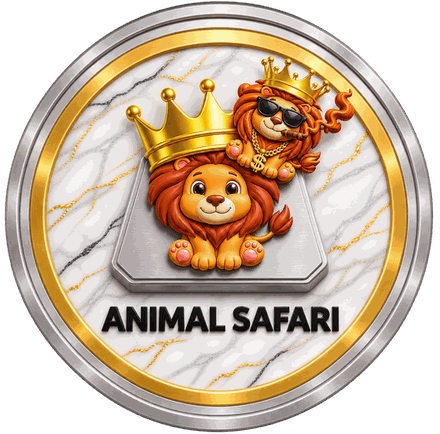
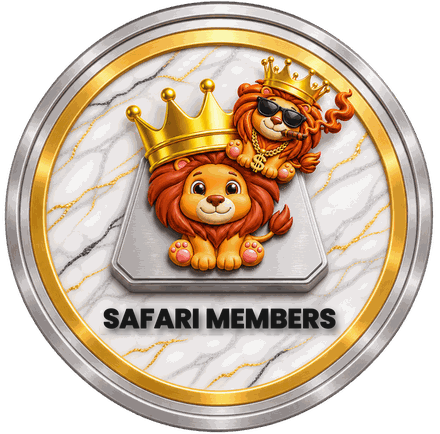
Safari Members: lencana 'SAFARI MEMBERS'; log masuk ahli dengan no. telefon + no. kenderaan (ahli_masuk + segerak harian kaunter); pautan ?c=&buka=bayar|daftar|masuk; QR umum & QR bayar setiap cawangan + poster A4 di Akaun → Tetapan Apps
Claude-Session: https://claude.ai/code/session_01LfLozUEuiZy5PFpUPcqDjt

Changed region(s): [[0.2068, 0.6889, 0.7682, 0.7788]]

diff --git a/akaun/index.html b/akaun/index.html
@@ -3,7 +3,7 @@
 <head>
 <meta charset="utf-8">
 <meta name="viewport" content="width=device-width,initial-scale=1,viewport-fit=cover">
-<meta name="app-versi" content="2026.11.16-16">
+<meta name="app-versi" content="2026.11.16-17">
 <meta name="theme-color" content="#14532d">
 <title>Akaun Mama Lion</title>
 <link rel="manifest" href="manifest.json">
@@ -108,11 +108,11 @@ setTimeout(function(){
 }, 9000);
 </script>
 <script type="module">
-import { firebaseConfig, BRANCH_ID } from '../firebase-config.js?v=2026.11.16-16';
-import { modulPengurusan, CSS_MODUL, fMinit, avatar, fotoProfil, CSS_AVATAR, JENIS_INFO, idBaca, teksKeHtml, CSS_DOK, KUASA, ikonKuasa, adaKuasa, PUSAT, CAW, JENIS_PEKERJA, kadarSejam, kodQRStesen } from '../pekerja-lib.js?v=2026.11.16-16';
-import { pasangSync } from '../sync-lib.js?v=2026.11.16-16';
-import { modulTutup, CSS_TUTUP, STATUS_TUTUP, senaraiTutup, dibayarAwal, KAEDAH_BAYAR_STAF, modulDuty, hariPT, htmlPT, teksPT, cetak, kongsiWhatsApp } from '../laporan-lib.js?v=2026.11.16-16';
-import { keadaanKad, normTelefon, telefonSah, paparTelefon, normPlat, KAD, HARGA_RASMI, hargaPakejK, BANK_MY, htmlTerimaBayar, adaTerimaBayar, pasangTerimaBayar, dataAwam, itemOrder } from '../safari-lib.js?v=2026.11.16-16';
+import { firebaseConfig, BRANCH_ID } from '../firebase-config.js?v=2026.11.16-17';
+import { modulPengurusan, CSS_MODUL, fMinit, avatar, fotoProfil, CSS_AVATAR, JENIS_INFO, idBaca, teksKeHtml, CSS_DOK, KUASA, ikonKuasa, adaKuasa, PUSAT, CAW, JENIS_PEKERJA, kadarSejam, kodQRStesen } from '../pekerja-lib.js?v=2026.11.16-17';
+import { pasangSync } from '../sync-lib.js?v=2026.11.16-17';
+import { modulTutup, CSS_TUTUP, STATUS_TUTUP, senaraiTutup, dibayarAwal, KAEDAH_BAYAR_STAF, modulDuty, hariPT, htmlPT, teksPT, cetak, kongsiWhatsApp } from '../laporan-lib.js?v=2026.11.16-17';
+import { keadaanKad, normTelefon, telefonSah, paparTelefon, normPlat, KAD, HARGA_RASMI, hargaPakejK, BANK_MY, htmlTerimaBayar, adaTerimaBayar, pasangTerimaBayar, dataAwam, itemOrder } from '../safari-lib.js?v=2026.11.16-17';
 import { initializeApp } from 'https://www.gstatic.com/firebasejs/10.13.0/firebase-app.js';
 import { getAuth, onAuthStateChanged, signInWithEmailAndPassword, signOut } from 'https://www.gstatic.com/firebasejs/10.13.0/firebase-auth.js';
 import { getFirestore, collection, query, where, getDocs, getDoc, getDocFromServer, addDoc, updateDoc, deleteDoc, doc, setDoc, onSnapshot, serverTimestamp, writeBatch } from 'https://www.gstatic.com/firebasejs/10.13.0/firebase-firestore.js';
@@ -1605,7 +1605,7 @@ function viewTetapanApps(){
   const fw = (T.pakej || []).find(p => p.id === T.pakejFreeWash);
   return head + `<div class="card" style="background:#fffbeb;box-shadow:none"><div class="section-title"><h3>📋 Senarai harga rasmi (Price List)</h3><button class="primary" id="tkRasmi">Muat ke ${esc(namaCawangan())}</button></div>
       <p class="muted" style="margin:0">${HARGA_RASMI.pakej.length} pakej & ${HARGA_RASMI.addon.length} add-on dengan harga ikut kenderaan (Sedan, SUV, MPV, 4x4, DXL) — Promo A/B, Premium Wash, Water Coating, Polish, Seat / Deep Cleaning, Enjin, Watermark Glass, Polish Lampu. Pakej & add-on sedia ada cawangan ini akan diganti. Kadar komisen perlu ditetapkan semula.</p></div>` + Object.entries(JENIS_TK).map(([j, J]) => `<div class="card"><div class="section-title"><h3>${J.ikon} ${J.label}</h3><button class="primary" data-tkubah="${j}">Ubah</button></div><div>${ringkas(j)}</div></div>`).join('')
-    + kadTerimaBayar(T)
+    + kadTerimaBayar(T) + kadQrMembers()
     + `<div class="card"><div class="section-title"><h3>🏪 Maklumat kedai & Safari Members</h3><button class="primary" id="tkKedai">Ubah</button></div>
       <div class="muted">${esc(T.namaKedai || '')}${T.alamat ? ' · ' + esc(T.alamat) : ''}<br>Free Wash: <b>${esc(fw?.nama || 'belum dipilih')}</b> · WhatsApp: ${esc(T.whatsapp || '—')} · Waktu: ${esc(T.waktuOperasi || '—')}<br>Bay: ${esc((T.bay || []).join(', ') || '—')}</div></div>
       <div class="card"><p class="muted" style="margin:0">Pekerja dengan kuasa 🏷 juga boleh ubah harga di kaunter (Lion Safari V2 → Tetapan). Petty cash, float tunai & had diskaun kekal di kaunter V2 (Admin).</p></div>`;
@@ -1617,6 +1617,8 @@ function pasangTetapanApps(){
   if($('#tkKedai')) $('#tkKedai').onclick = borangKedai;
   if($('#tbUbah')) $('#tbUbah').onclick = borangTerimaBayar;
   if($('#tbCetak')) $('#tbCetak').onclick = cetakPosterBayar;
+  if($('#qrPoster')) $('#qrPoster').onclick = cetakPosterMembers;
+  if($('#qrSalin')) $('#qrSalin').onclick = async () => { try{ await navigator.clipboard.writeText(urlMembers()); toast('Pautan disalin'); }catch(_){ prompt('Salin pautan:', urlMembers()); } };
   if($('#tbSalinCaw')) $('#tbSalinCaw').onclick = async () => {
     const lain = CAW.find(x => x.id !== cawangan); if(!lain) return;
     if(!confirm(`Guna akaun penerima & QR yang sama untuk ${lain.nama}? (Tetapan ${lain.nama} sedia ada akan diganti)`)) return;
@@ -1672,6 +1674,35 @@ function borangTerimaBayar(){
     try{ await setDoc(doc(store, 'lionsafari', cawangan, 'tetapan', 'umum'), {terimaBayaran: d, dikemaskiniOleh: nama}, {merge: true}); tutupModal(); toast(`✅ Akaun penerima ${namaCawangan()} disimpan — terus dipapar di kaunter & Apps Pelanggan`); }
     catch(e){ $('#tbSimpan').disabled = false; toast('⚠ ' + (e.code || e.message)); }
   };
+}
+
+// ---------- 📱 QR Safari Members (umum): bayar tanpa tempahan, daftar ahli, log masuk, pasang apps ----------
+const urlMembers = (bayar = false) => `https://alamhayyat20-collab.github.io/Mama-lion-hub/pelanggan/?c=${cawangan}${bayar ? '&buka=bayar' : ''}`;
+const qrMembers = (bayar = false) => new URL(`../pelanggan/qr/qr-${cawangan}${bayar ? '-bayar' : ''}.png`, location.href).href;
+function kadQrMembers(){
+  return `<div class="card"><div class="section-title"><h3>📱 QR Safari Members — ${esc(namaCawangan())}</h3><div class="row"><button class="primary" id="qrPoster">🖨 Cetak poster QR</button><button class="small" id="qrSalin">📋 Salin pautan</button></div></div>
+    <p class="muted" style="margin-top:0">Untuk orang ramai: imbas untuk <b>bayar cucian tanpa tempahan</b>, <b>daftar ahli percuma</b>, <b>log masuk ahli</b> (no. telefon + no. kenderaan) & <b>pasang apps</b>.</p>
+    <div class="row" style="gap:16px;align-items:flex-start">
+      <div style="text-align:center"><img src="${qrMembers()}" style="width:170px;border:1px solid #e2e8f0;border-radius:12px"><br><b>Safari Members</b><br><a href="${qrMembers()}" download="QR-SafariMembers-${cawangan}.png">⬇ Muat turun</a></div>
+      <div style="text-align:center"><img src="${qrMembers(true)}" style="width:170px;border:1px solid #e2e8f0;border-radius:12px"><br><b>Bayar terus</b><br><a href="${qrMembers(true)}" download="QR-Bayar-${cawangan}.png">⬇ Muat turun</a></div></div></div>`;
+}
+function cetakPosterMembers(){
+  const T = tetapanKaunter, logo = new URL(cawangan === 'lion-king' ? 'logo-lionking.jpg' : 'logo-mamalion.jpg', location.href).href, syiling = new URL('../pelanggan/syiling.png', location.href).href;
+  const w = window.open('', '_blank'); if(!w) return toast('Benarkan pop-up untuk cetak');
+  w.document.write(`<!DOCTYPE html><html><head><meta charset="utf-8"><title>Poster Safari Members ${esc(namaCawangan())}</title><style>@page{size:A4;margin:12mm}*{box-sizing:border-box}body{font-family:system-ui,sans-serif;color:#0f2d1e;margin:0;text-align:center}
+    .atas{display:flex;align-items:center;justify-content:center;gap:14px}.atas img{height:80px}h1{font-size:42px;margin:6px 0 0;letter-spacing:3px}.sub{color:#475569;font-size:17px;margin-bottom:8px}
+    .qr{width:330px;border:5px solid #14532d;border-radius:22px;padding:8px}.senarai{display:grid;grid-template-columns:1fr 1fr;gap:10px;text-align:left;max-width:600px;margin:14px auto}
+    .senarai div{border:2px solid #e2e8f0;border-radius:14px;padding:10px 12px;font-size:15px}.senarai b{display:block;font-size:17px;color:#14532d}
+    .bawah{display:flex;align-items:center;justify-content:center;gap:16px;margin-top:10px;border-top:2px dashed #94a3b8;padding-top:12px}.bawah img{width:150px}</style></head><body>
+    <div class="atas"><img src="${logo}"><img src="${syiling}"></div><h1>SAFARI MEMBERS</h1><div class="sub">${esc(T.namaKedai || namaCawangan())} — imbas dengan kamera telefon</div>
+    <img class="qr" src="${qrMembers()}">
+    <div class="senarai"><div><b>💳 Bayar cucian</b>Tanpa tempahan — masukkan no. kenderaan, imbas QR bank & muat naik resit.</div>
+      <div><b>⭐ Daftar ahli percuma</b>Kumpul cop setiap cucian. Cop ke-4 & ke-8 = Free Wash!</div>
+      <div><b>🔑 Log masuk ahli</b>Guna no. telefon & no. kenderaan yang didaftarkan.</div>
+      <div><b>📲 Pasang apps</b>Tekan butang Pasang — apps terus ada di skrin telefon.</div></div>
+    <div class="bawah"><img src="${qrMembers(true)}"><div style="text-align:left"><b style="font-size:20px">Nak bayar terus?</b><br>Imbas QR ini untuk terus ke<br>halaman bayaran cucian.</div></div>
+    <script>window.onload=()=>setTimeout(()=>print(),500)<\/script></body></html>`);
+  w.document.close();
 }
 function cetakPosterBayar(){
   const T = tetapanKaunter, B = T.terimaBayaran || {}, logo = new URL(cawangan === 'lion-king' ? 'logo-lionking.jpg' : 'logo-mamalion.jpg', location.href).href;

diff --git a/pelanggan/index.html b/pelanggan/index.html
@@ -3,7 +3,7 @@
 <head>
 <meta charset="utf-8">
 <meta name="viewport" content="width=device-width,initial-scale=1,viewport-fit=cover">
-<meta name="app-versi" content="2026.11.16-16">
+<meta name="app-versi" content="2026.11.16-17">
 <meta name="theme-color" content="#0d2a20">
 <meta name="apple-mobile-web-app-capable" content="yes">
 <meta name="mobile-web-app-capable" content="yes">
@@ -231,11 +231,11 @@ setTimeout(function(){
 }, 9000);
 </script>
 <script type="module">
-import { firebaseConfig } from '../firebase-config.js?v=2026.11.16-16';
+import { firebaseConfig } from '../firebase-config.js?v=2026.11.16-17';
 import { initializeApp } from 'https://www.gstatic.com/firebasejs/10.13.0/firebase-app.js';
 import { getFirestore, collection, doc, getDoc, getDocs, onSnapshot, updateDoc, setDoc, addDoc, writeBatch, query, orderBy, limit, arrayUnion, serverTimestamp } from 'https://www.gstatic.com/firebasejs/10.13.0/firebase-firestore.js';
-import { pasangSync } from '../sync-lib.js?v=2026.11.16-16';
-import { KAD, keadaanKad, normPlat, paparPlat, normTelefon, telefonSah, paparTelefon, buatToken, ahliBaru, hargaPakejK, hargaAddonK, HARGA_RASMI, STATUS_ORDER, gambarAsal, htmlTerimaBayar, adaTerimaBayar, pasangTerimaBayar } from '../safari-lib.js?v=2026.11.16-16';
+import { pasangSync } from '../sync-lib.js?v=2026.11.16-17';
+import { KAD, keadaanKad, normPlat, paparPlat, normTelefon, telefonSah, paparTelefon, buatToken, ahliBaru, hargaPakejK, hargaAddonK, HARGA_RASMI, STATUS_ORDER, gambarAsal, htmlTerimaBayar, adaTerimaBayar, pasangTerimaBayar, kunciMasuk, dokMasukAhli } from '../safari-lib.js?v=2026.11.16-17';
 
 const CAWANGAN = [
   {id:'mama-lion', nama:'Mama Lion', logo:'logo-mamalion.jpg'},
@@ -263,6 +263,9 @@ const tetapan = {}, gambarPakej = {};
 const m = location.hash.match(/k=([A-Za-z0-9]{20,40})/);
 if(m){ LS.set('sm_token', m[1]); history.replaceState(null, '', location.pathname); }
 token = LS.get('sm_token');
+// Pautan / QR umum: ?c=mama-lion|lion-king  &buka=bayar|daftar|masuk
+const QS = new URLSearchParams(location.search), bukaQS = QS.get('buka');
+if(['mama-lion', 'lion-king'].includes(QS.get('c'))){ cawPakej = QS.get('c'); }
 
 // ---------- Ikon navigasi ----------
 const IKON = {
@@ -433,8 +436,23 @@ function promoHtml(p){
 }
 
 // ---------- Alu-aluan (belum ahli) ----------
+// ---------- Log masuk ahli: no. telefon + no. kenderaan ----------
+function simpanMasuk(a){ dokMasukAhli(a).forEach(([k, v]) => setDoc(doc(db, 'ahli_masuk', k), v).catch(e => console.warn('ahli_masuk', e))); }
+async function logMasuk(){
+  const tel = normTelefon(val('#mTel')), plat = normPlat(val('#mPlat')), ralat = t => { $('#mRalat').textContent = t; };
+  if(!telefonSah(tel)) return ralat('No. telefon tidak sah. Contoh: 012-345 6789.');
+  if(plat.length < 2) return ralat('Sila isi no. kenderaan yang didaftarkan.');
+  $('#mMasuk').disabled = true; $('#mMasuk').textContent = 'Menyemak…'; ralat('');
+  try{
+    const s = await getDoc(doc(db, 'ahli_masuk', kunciMasuk(tel, plat)));
+    if(!s.exists()){ $('#mMasuk').disabled = false; $('#mMasuk').textContent = 'Log masuk';
+      return ralat('Tiada kad ahli untuk no. telefon & kenderaan ini. Semak semula, atau minta kaunter kemas kini maklumat anda. Belum ahli? Tekan "Daftar ahli percuma".'); }
+    token = s.data().token; LS.set('sm_token', token); tab = 'Kad';
+    toast('✅ Log masuk berjaya. Selamat kembali!'); mulaAhli(); window.scrollTo({top:0});
+  }catch(e){ console.error(e); $('#mMasuk').disabled = false; $('#mMasuk').textContent = 'Log masuk'; ralat('Tidak dapat menyemak sekarang. Semak sambungan internet dan cuba lagi.'); }
+}
 function viewAluan(){
-  $('#app').innerHTML = `<div class="pentas"><div class="syiling"><img src="syiling.png" alt="Lencana Animal Safari"></div></div>
+  $('#app').innerHTML = `<div class="pentas"><div class="syiling"><img src="syiling.png" alt="Lencana Safari Members"></div></div>
     <button class="btn" id="keBayar" style="margin:6px 0 4px;background:#14532d;color:#fff">💳 Bayar cucian kenderaan saya</button>
     <h1>Safari Members</h1>
     <p class="lead">Kad ahli digital Mama Lion & Lion King. Kumpul cop setiap kali mencuci, dapat Free Wash.</p>
@@ -445,10 +463,17 @@ function viewAluan(){
     </ul></div>
     <div style="margin-top:20px"><button class="btn btn-emas" id="keDaftar">Daftar ahli percuma</button>
       <button class="btn btn-garis" id="kePromo">Lihat promosi & pakej</button></div>
-    <p class="muted" style="text-align:center;margin-top:16px">Sudah didaftarkan di kaunter? Minta kaunter hantar pautan kad anda melalui WhatsApp.</p>
+    <h2 id="masukAhli">Sudah ahli? Log masuk</h2>
+    <div class="panel"><p class="muted" style="margin-top:0">Untuk ahli yang telah mendaftar di kaunter atau dalam apps.</p>
+      <label style="display:block;font-weight:700">No. telefon</label><input id="mTel" inputmode="tel" autocomplete="tel" placeholder="cth: 012-345 6789" style="width:100%">
+      <label style="display:block;font-weight:700;margin-top:8px">No. kenderaan berdaftar</label><input id="mPlat" placeholder="cth: VAB 1234" style="width:100%;text-transform:uppercase" autocomplete="off">
+      <div id="mRalat" class="muted" style="color:#b91c1c;margin-top:6px"></div>
+      <button class="btn btn-emas" id="mMasuk" style="margin-top:10px">Log masuk</button></div>
     ${pasangHtml()}`;
   $('#keDaftar').onclick = () => { tab = 'Daftar'; render(); window.scrollTo({top:0}); };
   $('#keBayar').onclick = () => { tab = 'Bayar'; render(); window.scrollTo({top:0}); };
+  $('#mMasuk').onclick = logMasuk; $('#mPlat').onkeydown = e => { if(e.key === 'Enter') logMasuk(); };
+  if(bukaQS === 'masuk') setTimeout(() => { $('#masukAhli')?.scrollIntoView({behavior:'smooth'}); $('#mTel')?.focus(); }, 300);
   $('#kePromo').onclick = () => { tab = 'Promosi'; render(); };
   pasangPasang();
 }
@@ -489,13 +514,14 @@ function viewDaftar(){
       b.set(doc(db, 'ahli', t), data);
       b.set(doc(db, 'ahli_telefon', tel), {token: t});
       await b.commit();
+      simpanMasuk({id: t, ...data});
       token = t; LS.set('sm_token', t); tab = 'Kad';
       toast(`Selamat datang ke Safari Members, ${nama.split(' ')[0]}!`);
       mulaAhli();
     }catch(e){
       console.error(e);
       $('#dHantar').disabled = false; $('#dHantar').textContent = 'Daftar ahli';
-      ralat(e.code === 'permission-denied' ? 'Nombor telefon ini sudah berdaftar. Minta kaunter hantar pautan kad anda melalui WhatsApp.' : 'Pendaftaran gagal. Semak sambungan internet dan cuba lagi.');
+      ralat(e.code === 'permission-denied' ? 'Nombor telefon ini sudah berdaftar. Sila guna "Log masuk ahli" di skrin utama dengan no. telefon & no. kenderaan anda.' : 'Pendaftaran gagal. Semak sambungan internet dan cuba lagi.');
     }
   };
 }
@@ -746,10 +772,11 @@ function viewProfil(){
       await updateDoc(doc(db, 'ahli', token), {nama: val('#pNama'), emel: val('#pEmel'), tarikhLahir: val('#pLahir'), kenderaan, plat: [...new Set(kenderaan.map(k => normPlat(k.plat)))],
         cawanganUtama: val('#pCaw'), setujuPromosi: $('#pPromo').checked, dikemaskini: Date.now()});
       toast('Profil disimpan.');
+      simpanMasuk({...ahli, kenderaan, plat: [...new Set(kenderaan.map(k => normPlat(k.plat)))]});
     }catch(err){ console.error(err); toast('Profil tidak dapat disimpan. Semak sambungan internet.'); }
   };
   $('#pSalin').onclick = async () => { const u = new URL('#k=' + token, location.href.split('#')[0]).href; try{ await navigator.clipboard.writeText(u); toast('Pautan kad disalin.'); }catch(_){ prompt('Salin pautan kad anda:', u); } };
-  $('#pKeluar').onclick = () => { if(!confirm('Keluar dari kad di telefon ini? Anda perlukan pautan kad untuk masuk semula.')) return; LS.set('sm_token', null); token = null; ahli = null; if(unsubAhli) unsubAhli(); tab = 'Utama'; render(); };
+  $('#pKeluar').onclick = () => { if(!confirm('Keluar dari kad di telefon ini? Anda boleh log masuk semula dengan no. telefon & no. kenderaan.')) return; LS.set('sm_token', null); token = null; ahli = null; if(unsubAhli) unsubAhli(); tab = 'Utama'; render(); };
 }
 async function gambarProfil(fail){
   const img = await new Promise((ok, gagal) => { const i = new Image(); i.onload = () => ok(i); i.onerror = gagal; i.src = URL.createObjectURL(fail); });
@@ -778,7 +805,9 @@ function pasangPasang(){
 }
 
 // ---------- Mula ----------
-tab = 'Utama';
+tab = bukaQS === 'bayar' ? 'Bayar' : (bukaQS === 'daftar' && !token) ? 'Daftar' : 'Utama';
+if(bukaQS === 'bayar' && ['mama-lion', 'lion-king'].includes(QS.get('c'))) byC = QS.get('c');
+if(bukaQS) history.replaceState(null, '', location.pathname + location.hash);
 mulaAhli();
 muatPromosi();
 render();

diff --git a/lionsafari/index.html b/lionsafari/index.html
@@ -3,7 +3,7 @@
 <head>
 <meta charset="utf-8">
 <meta name="viewport" content="width=device-width,initial-scale=1,viewport-fit=cover">
-<meta name="app-versi" content="2026.11.16-16">
+<meta name="app-versi" content="2026.11.16-17">
 <meta name="theme-color" content="#0f172a">
 <meta name="apple-mobile-web-app-capable" content="yes">
 <meta name="apple-mobile-web-app-status-bar-style" content="black-translucent">
@@ -164,16 +164,16 @@ setTimeout(function(){
 }, 9000);
 </script>
 <script type="module">
-import { firebaseConfig, BRANCH_ID } from '../firebase-config.js?v=2026.11.16-16';
+import { firebaseConfig, BRANCH_ID } from '../firebase-config.js?v=2026.11.16-17';
 import { initializeApp } from 'https://www.gstatic.com/firebasejs/10.13.0/firebase-app.js';
 import { getAuth, onAuthStateChanged, signInWithEmailAndPassword, signOut } from 'https://www.gstatic.com/firebasejs/10.13.0/firebase-auth.js';
 import { initializeFirestore, persistentLocalCache, persistentMultipleTabManager, collection, doc, query, where, orderBy, limit,
   getDocs, getDoc, setDoc, addDoc, updateDoc, deleteDoc, onSnapshot, serverTimestamp, increment, runTransaction, arrayUnion } from 'https://www.gstatic.com/firebasejs/10.13.0/firebase-firestore.js';
-import { normPlat, paparPlat, normTelefon, telefonSah, paparTelefon, buatToken, ahliBaru, keadaanKad, tambahCop, batalCop, gunaFreeWash, pulangFreeWash, KAD, hargaPakejK, hargaAddonK, gambarAsal, htmlTerimaBayar, pasangTerimaBayar } from '../safari-lib.js?v=2026.11.16-16';
-import { modulPengurusan, CSS_MODUL, avatar, fotoProfil, kadID, CSS_AVATAR, KUASA, MOHON_BUKAN_WANG, adaKuasa, ikonKuasa, PUSAT, capGambar } from '../pekerja-lib.js?v=2026.11.16-16';
-import { modulTutup, CSS_TUTUP } from '../laporan-lib.js?v=2026.11.16-16';
-import { kaunter, STATUS_TEMPAHAN } from '../kaunter-lib.js?v=2026.11.16-16';
-import { pasangSync } from '../sync-lib.js?v=2026.11.16-16';
+import { normPlat, paparPlat, normTelefon, telefonSah, paparTelefon, buatToken, ahliBaru, keadaanKad, tambahCop, batalCop, gunaFreeWash, pulangFreeWash, KAD, hargaPakejK, hargaAddonK, gambarAsal, htmlTerimaBayar, pasangTerimaBayar, kunciMasuk, dokMasukAhli } from '../safari-lib.js?v=2026.11.16-17';
+import { modulPengurusan, CSS_MODUL, avatar, fotoProfil, kadID, CSS_AVATAR, KUASA, MOHON_BUKAN_WANG, adaKuasa, ikonKuasa, PUSAT, capGambar } from '../pekerja-lib.js?v=2026.11.16-17';
+import { modulTutup, CSS_TUTUP } from '../laporan-lib.js?v=2026.11.16-17';
+import { kaunter, STATUS_TEMPAHAN } from '../kaunter-lib.js?v=2026.11.16-17';
+import { pasangSync } from '../sync-lib.js?v=2026.11.16-17';
 
 // =====================================================================
 // TETAPAN ASAS (Admin sahaja boleh ubah dalam tab Tetapan)
@@ -285,6 +285,15 @@ let aktif = [], dibuatHari = [], bayarHari = [], stok = [], petty = [];
 let unsubAsas = [], unsubHari = [], dataError = '';
 let pasangPrompt = null;
 let GAMBAR = {}, KOMISEN = {}, FOTO = {}, tempahan = [], bayarPel = [], bayarPelMula = false;
+// Segerak indeks log masuk Apps Pelanggan (ahli_masuk/{telefon}_{plat}) — sekali setiap 12 jam
+async function segerakMasukAhli(){
+  try{ if(Date.now() - (+localStorage.getItem('ls_masukSync') || 0) < 12 * 3600e3) return; }catch(_){}
+  try{
+    const s = await getDocs(ahliCol()); const senarai = s.docs.flatMap(d => dokMasukAhli({id: d.id, ...d.data()}));
+    for(let i = 0; i < senarai.length; i += 400) await Promise.all(senarai.slice(i, i + 400).map(([k, v]) => setDoc(doc(store, 'ahli_masuk', k), v)));
+    localStorage.setItem('ls_masukSync', String(Date.now())); console.log('ahli_masuk segerak', senarai.length);
+  }catch(e){ console.warn('segerak ahli_masuk', e); }
+}
 // Notifikasi kaunter: bunyi + getar + notifikasi sistem (jika dibenarkan) + toast
 function bunyiMaklum(tajuk, isi){
   toast(`${tajuk}: ${isi}`);
@@ -513,6 +522,7 @@ function kunci(){ modulPK.henti(); staf = null; try{ localStorage.removeItem('ls
 function langganHari(){
   stopAll(unsubHari);
   hari = today();
+  segerakMasukAhli();
   unsubHari.push(onSnapshot(query(col('order'), where('aktif','==',true)), s => {
     const lama = Object.fromEntries(aktif.map(o => [o.id, o.diskaunBeri?.masa || 0]));
     aktif = s.docs.map(d => ({id:d.id, ...d.data()})).sort((a,b) => (a.masaDibuat||0)-(b.masaDibuat||0));
@@ -920,6 +930,7 @@ VIEWS['Order Baru'] = {
           }
         }
         if(ahli && !(ahli.plat || []).includes(normPlat(plat))) updateDoc(doc(ahliCol(), ahli.id), {plat: arrayUnion(normPlat(plat)), kenderaan: arrayUnion({plat, jenis:k.nama})}).catch(console.error);
+        if(ahli) setDoc(doc(store, 'ahli_masuk', kunciMasuk(ahli.telefon || tel, plat)), {token: ahli.id}).catch(console.error);;
         const ref = doc(col('order'));
         const data = {no, plat, nama, telefon: tel, kenderaan:k.nama, tambahanKenderaan: fw ? 0 : tambah, pakejId: p.id, pakej:p.nama, hargaPakej: fw ? 0 : p.harga, addon,
           jumlahKasar:kasar, diskaun:0, jumlah:kasar, bay: val('#oBay'), catatan: val('#oCat'), status:'Menunggu', aktif:true,

diff --git a/pekerja/index.html b/pekerja/index.html
@@ -3,7 +3,7 @@
 <head>
 <meta charset="utf-8">
 <meta name="viewport" content="width=device-width,initial-scale=1,viewport-fit=cover">
-<meta name="app-versi" content="2026.11.16-16">
+<meta name="app-versi" content="2026.11.16-17">
 <meta name="theme-color" content="#14532d">
 <meta name="apple-mobile-web-app-capable" content="yes">
 <meta name="mobile-web-app-capable" content="yes">
@@ -115,15 +115,15 @@ setTimeout(function(){
 }, 9000);
 </script>
 <script type="module">
-import { firebaseConfig } from '../firebase-config.js?v=2026.11.16-16';
+import { firebaseConfig } from '../firebase-config.js?v=2026.11.16-17';
 import { initializeApp } from 'https://www.gstatic.com/firebasejs/10.13.0/firebase-app.js';
 import { getAuth, onAuthStateChanged, signInWithEmailAndPassword, signOut } from 'https://www.gstatic.com/firebasejs/10.13.0/firebase-auth.js';
 import { getFirestore, collection, doc, query, where, onSnapshot, setDoc, getDoc, getDocs, updateDoc, deleteDoc, runTransaction, arrayUnion, writeBatch, serverTimestamp } from 'https://www.gstatic.com/firebasejs/10.13.0/firebase-firestore.js';
-import { JENIS_PEKERJA, JENIS_MOHON, STATUS_MOHON, hariIni, tambahHari, fTarikhPendek, fJam, fMinit, masaMs, syifDari, jarakMeter, jamKerja, minitLewat, capGambar, avatar, kadID, CSS_AVATAR, JENIS_INFO, idBaca, teksKeHtml, CSS_DOK, KUASA, MOHON_BUKAN_WANG, adaKuasa, ikonKuasa, pengelola, modulPengurusan, CSS_MODUL, PUSAT, CAW, namaCaw, tempatStaf, labelTempat, bacaQRStesen } from '../pekerja-lib.js?v=2026.11.16-16';
-import { normPlat, paparPlat, normTelefon, telefonSah, paparTelefon, buatToken, ahliBaru, keadaanKad, KAD, hargaPakejK, hargaAddonK, gambarAsal, htmlTerimaBayar, pasangTerimaBayar, DISKAUN_KUASA } from '../safari-lib.js?v=2026.11.16-16';
-import { kaunter, KAEDAH_BAYAR } from '../kaunter-lib.js?v=2026.11.16-16';
-import { modulTutup, CSS_TUTUP, STATUS_TUTUP, modulDuty } from '../laporan-lib.js?v=2026.11.16-16';
-import { pasangSync } from '../sync-lib.js?v=2026.11.16-16';
+import { JENIS_PEKERJA, JENIS_MOHON, STATUS_MOHON, hariIni, tambahHari, fTarikhPendek, fJam, fMinit, masaMs, syifDari, jarakMeter, jamKerja, minitLewat, capGambar, avatar, kadID, CSS_AVATAR, JENIS_INFO, idBaca, teksKeHtml, CSS_DOK, KUASA, MOHON_BUKAN_WANG, adaKuasa, ikonKuasa, pengelola, modulPengurusan, CSS_MODUL, PUSAT, CAW, namaCaw, tempatStaf, labelTempat, bacaQRStesen } from '../pekerja-lib.js?v=2026.11.16-17';
+import { normPlat, paparPlat, normTelefon, telefonSah, paparTelefon, buatToken, ahliBaru, keadaanKad, KAD, hargaPakejK, hargaAddonK, gambarAsal, htmlTerimaBayar, pasangTerimaBayar, DISKAUN_KUASA, kunciMasuk } from '../safari-lib.js?v=2026.11.16-17';
+import { kaunter, KAEDAH_BAYAR } from '../kaunter-lib.js?v=2026.11.16-17';
+import { modulTutup, CSS_TUTUP, STATUS_TUTUP, modulDuty } from '../laporan-lib.js?v=2026.11.16-17';
+import { pasangSync } from '../sync-lib.js?v=2026.11.16-17';
 
 // Akaun Firebase khas untuk telefon pekerja (dicipta oleh pemilik di Firebase Console)
 const EMAIL_PEKERJA = 'alamhayyat20+pekerja@gmail.com';
@@ -931,6 +931,7 @@ function borangOrder(){
         }
       }
       if(ahli && !(ahli.plat || []).includes(normPlat(plat))) updateDoc(doc(ahliCol(), ahli.id), {plat: arrayUnion(normPlat(plat)), kenderaan: arrayUnion({plat, jenis:k.nama})}).catch(console.error);
+      if(ahli) setDoc(doc(store, 'ahli_masuk', kunciMasuk(ahli.telefon || tel, plat)), {token: ahli.id}).catch(console.error);
       const ref = doc(LS(cawO,'order'));
       const data = {no, plat, nama, telefon: tel, kenderaan: k.nama, tambahanKenderaan: fw ? 0 : tambah, pakejId: p.id, pakej: p.nama, hargaPakej: fw ? 0 : p.harga, addon,
         jumlahKasar: kasar, diskaun: 0, jumlah: kasar, bay: val('#oBay') || '', catatan: val('#oCat'), status: 'Menunggu', aktif: true,

diff --git a/safari-lib.js b/safari-lib.js
@@ -231,3 +231,12 @@ export function dataAwam(o, c){
     jumlahKasar: Number(o.jumlahKasar) || 0, diskaun, jumlah: aktif ? Math.max(0, r2_((Number(o.jumlahKasar) || 0) - diskaun)) : (Number(o.jumlah) || 0),
     status: o.status || '', aktif, masa: Date.now()};
 }
+
+// ---------- Log masuk ahli: no. telefon + no. kenderaan → token kad ----------
+// ahli_masuk/{tel_plat} = {token}. Ditulis semasa daftar / order kaunter / kemas kini profil / segerak harian kaunter.
+export const kunciMasuk = (tel, plat) => `${normTelefon(tel)}_${normPlat(plat)}`;
+export function dokMasukAhli(a){   // senarai [kunci, {token}] bagi semua kenderaan ahli
+  if(!a?.telefon) return [];
+  const plat = [...new Set([...(a.plat || []), ...(a.kenderaan || []).map(k => k.plat)].map(normPlat).filter(Boolean))];
+  return plat.map(p => [kunciMasuk(a.telefon, p), {token: a.id}]);
+}

diff --git a/akaun/sw.js b/akaun/sw.js
@@ -1,5 +1,5 @@
 // Akaun Mama Lion — simpan fail apps supaya boleh dibuka seperti apps biasa (data Firebase diurus berasingan)
-const V = 'akaun-ml-v25';
+const V = 'akaun-ml-v26';
 const SHELL = ['./', 'index.html', 'manifest.json', 'icon-192.png', 'icon-512.png', 'logo-mamalion.jpg', 'logo-lionking.jpg', '../firebase-config.js', '../pekerja-lib.js', '../safari-lib.js', '../sync-lib.js'];
 self.addEventListener('install', e => e.waitUntil(caches.open(V).then(c => Promise.allSettled(SHELL.map(u => c.add(u)))).then(() => self.skipWaiting())));
 self.addEventListener('activate', e => e.waitUntil(caches.keys().then(ks => Promise.all(ks.filter(k => k.startsWith('akaun-ml-') && k !== V).map(k => caches.delete(k)))).then(() => self.clients.claim())));

diff --git a/lionsafari/sw.js b/lionsafari/sw.js
@@ -1,5 +1,5 @@
 // Lion Safari V2 — simpan fail apps untuk guna tanpa internet (data Firebase diurus berasingan)
-const V = 'lionsafari-v2-28';
+const V = 'lionsafari-v2-29';
 const SHELL = ['./', 'index.html', 'manifest.json', 'icon-192.png', 'icon-512.png', 'logo-mamalion.jpg', 'logo-lionking.jpg', '../firebase-config.js', '../pekerja-lib.js', '../safari-lib.js', '../sync-lib.js'];
 self.addEventListener('install', e => e.waitUntil(caches.open(V).then(c => Promise.allSettled(SHELL.map(u => c.add(u)))).then(() => self.skipWaiting())));
 self.addEventListener('activate', e => e.waitUntil(caches.keys().then(ks => Promise.all(ks.filter(k => k.startsWith('lionsafari-') && k !== V).map(k => caches.delete(k)))).then(() => self.clients.claim())));

diff --git a/pelanggan/sw.js b/pelanggan/sw.js
@@ -1,5 +1,5 @@
 // Safari Members — simpan fail apps (data Firebase diurus berasingan)
-const V = 'safari-members-v16';
+const V = 'safari-members-v17';
 const SHELL = ['./', 'index.html', 'manifest.json', 'icon-192.png', 'icon-512.png', 'syiling.png', 'marmar.jpg', 'logo-mamalion.jpg', 'logo-lionking.jpg', '../firebase-config.js', '../safari-lib.js', '../sync-lib.js'];
 self.addEventListener('install', e => e.waitUntil(caches.open(V).then(c => Promise.allSettled(SHELL.map(u => c.add(u)))).then(() => self.skipWaiting())));
 self.addEventListener('activate', e => e.waitUntil(caches.keys().then(ks => Promise.all(ks.filter(k => k.startsWith('safari-members-') && k !== V).map(k => caches.delete(k)))).then(() => self.clients.claim())));

diff --git a/pekerja/sw.js b/pekerja/sw.js
@@ -1,5 +1,5 @@
 // Apps Pekerja — simpan fail apps (data Firebase diurus berasingan)
-const V = 'pekerja-ml-v24';
+const V = 'pekerja-ml-v25';
 const SHELL = ['./', 'index.html', 'manifest.json', 'icon-192.png', 'icon-512.png', 'logo-mamalion.jpg', 'logo-lionking.jpg', '../firebase-config.js', '../pekerja-lib.js', '../safari-lib.js', '../sync-lib.js'];
 self.addEventListener('install', e => e.waitUntil(caches.open(V).then(c => Promise.allSettled(SHELL.map(u => c.add(u)))).then(() => self.skipWaiting())));
 self.addEventListener('activate', e => e.waitUntil(caches.keys().then(ks => Promise.all(ks.filter(k => k.startsWith('pekerja-ml-') && k !== V).map(k => caches.delete(k)))).then(() => self.clients.claim())));

diff --git a/kaunter-lib.js b/kaunter-lib.js
@@ -5,7 +5,7 @@
 // ctx = {store, fs:{collection, doc, query, where, getDoc, getDocs, setDoc, updateDoc, deleteDoc, runTransaction, serverTimestamp},
 //        pengguna: () => nama, tanda: () => ({olehId, olehCaw}) }   (tanda: Apps Pekerja sahaja)
 // =====================================================================
-import { tambahCop, dataStatus, KAD, dataAwam, normPlat } from './safari-lib.js?v=2026.11.16-16';
+import { tambahCop, dataStatus, KAD, dataAwam, normPlat } from './safari-lib.js?v=2026.11.16-17';
 
 const r2 = n => Math.round((Number(n) || 0) * 100) / 100;
 const pad = (n, l = 2) => String(n).padStart(l, '0');
